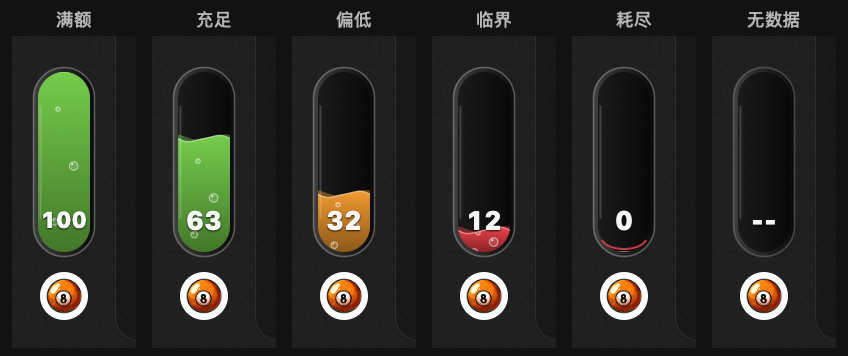
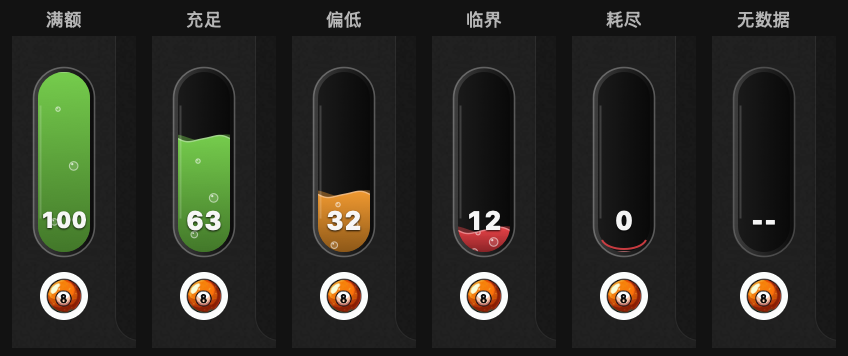
docs: center preview labels and use a versioned public GIF URL

diff --git a/scripts/state-preview.swift b/scripts/state-preview.swift
@@ -24,7 +24,7 @@ func render(phase: Double, destination: String) throws {
             .font: NSFont.systemFont(ofSize: 9, weight: .medium),
             .foregroundColor: NSColor(calibratedWhite: 0.65, alpha: 1)
         ])
-        title.draw(at: NSPoint(x: x + (62 - title.size().width) / 2, y: 163))
+        title.draw(at: NSPoint(x: x + BadgeLayout.avatarCenterX - title.size().width / 2, y: 163))
         NSGraphicsContext.saveGraphicsState()
         (AffineTransform(translationByX: x, byY: 4) as NSAffineTransform).concat()
         reference.draw(in: NSRect(x: 0, y: 0, width: 62, height: 156))

diff --git a/README.md b/README.md
@@ -2,7 +2,7 @@
 
 把 Codex 的剩余额度放在头像上方的 macOS 液体槽。液面表示剩余比例，底部显示整数；窗口移动时跟随，鼠标可以穿透。
 
-![QuotaDock 六种模拟额度状态](docs/images/quota-dock.gif)
+![QuotaDock 六种模拟额度状态](https://raw.githubusercontent.com/wind8ai/quota-dock/main/docs/images/quota-dock.gif?v=74db1e89de0b)
 
 当前版本 **3.0.3 / build 16**。绿色表示剩余至少 50%，琥珀色表示 20% 到不足 50%，红色表示不足 20%。`0` 保留红色细线，`--` 表示没有数据或缓存。图中六种额度均为模拟值。
 
